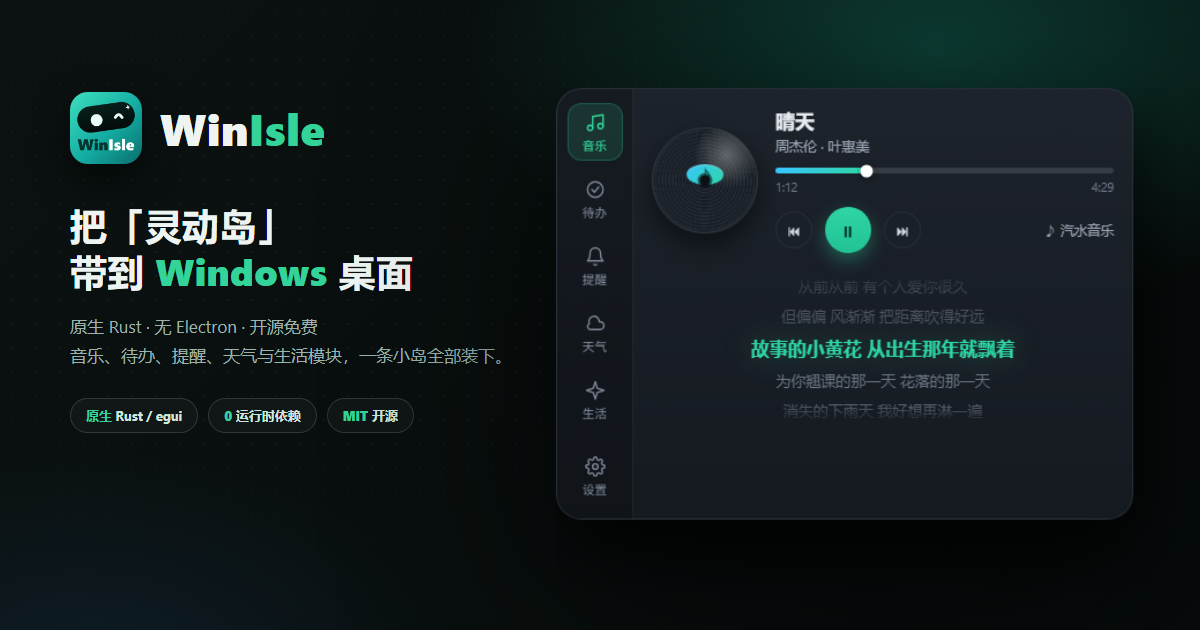
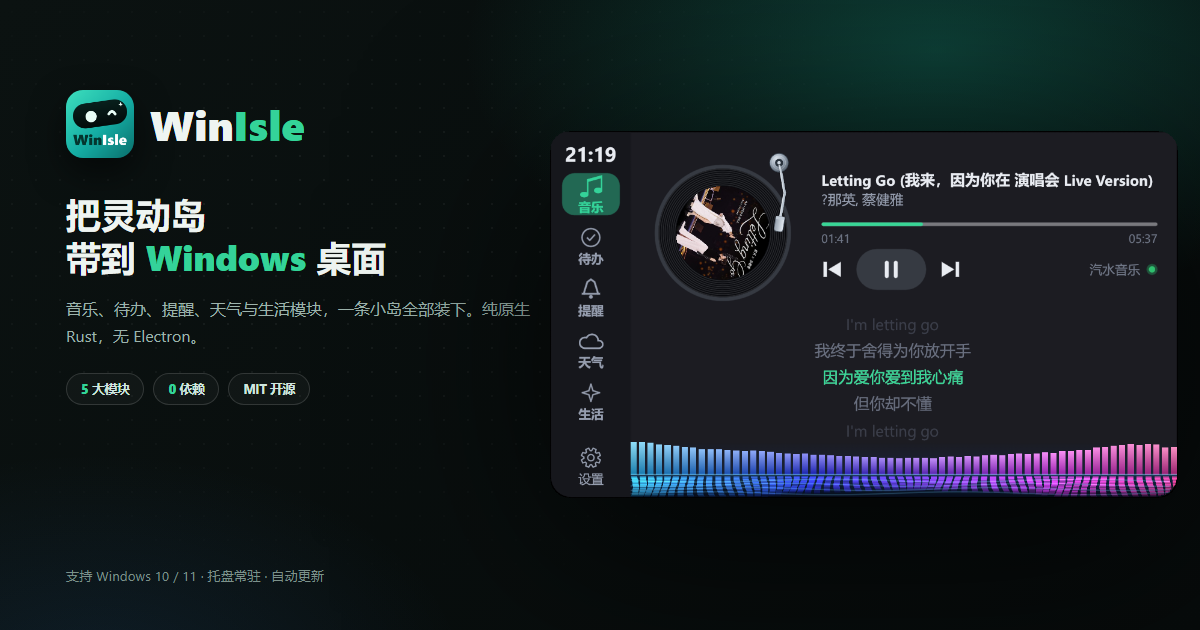
docs: 使用真实界面重制效果图，补充待办/提醒/天气等模块介绍

diff --git a/docs/index.html b/docs/index.html
@@ -269,6 +269,12 @@
   </div>
 </section>
 
+<section id="modules" style="padding-top:0">
+  <div class="wrap">
+    <div class="life-show"><img src="img/showcase_modules.png" alt="WinIsle 五个模块：音乐、待办、提醒、天气、生活"></div>
+  </div>
+</section>
+
 <section id="life" style="padding-top:0">
   <div class="wrap">
     <div class="life-show"><img src="img/showcase_life.png" alt="生活模块：生日倒计时与出差补贴"></div>

diff --git a/README.md b/README.md
@@ -46,6 +46,11 @@
 - **自动更新** — 每日检查新版本，后台下载进度，一键安装并自动重启。
 
 <div align="center">
+<img src="docs/img/showcase_modules.png" width="820" alt="WinIsle 五个模块：音乐、待办、提醒、天气、生活">
+<br><sub>一条小岛，五个模块：音乐 · 待办 · 提醒 · 天气 · 生活，随手切换。</sub>
+</div>
+
+<div align="center">
 <img src="docs/img/showcase_life.png" width="760" alt="WinIsle 生活模块：生日倒计时与出差补贴">
 <br><sub>生活模块：生日 · 纪念日 · 出差补贴，一个模块装三件事，都在同一条小岛里。</sub>
 </div>
